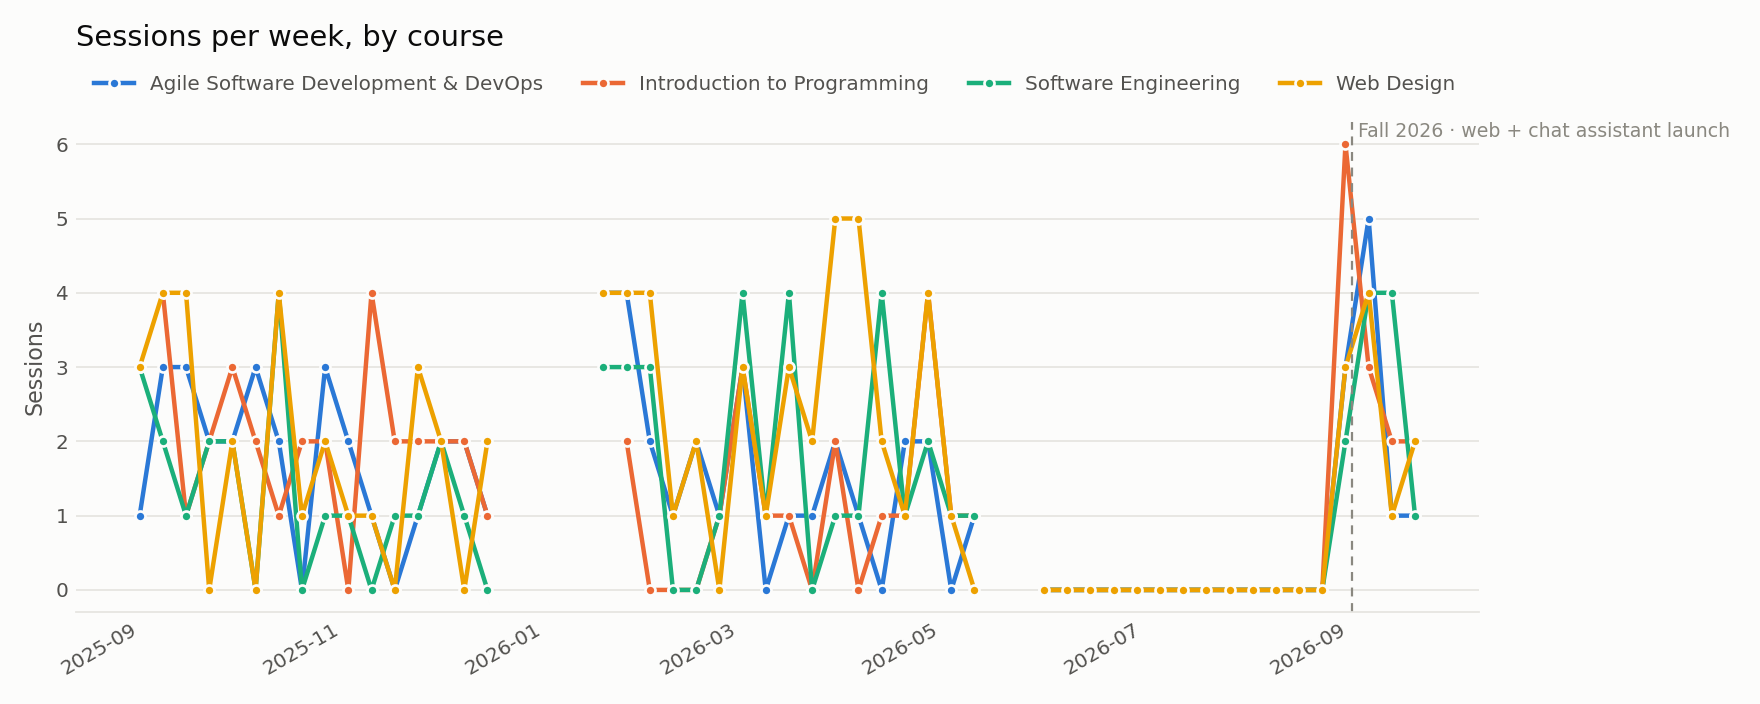
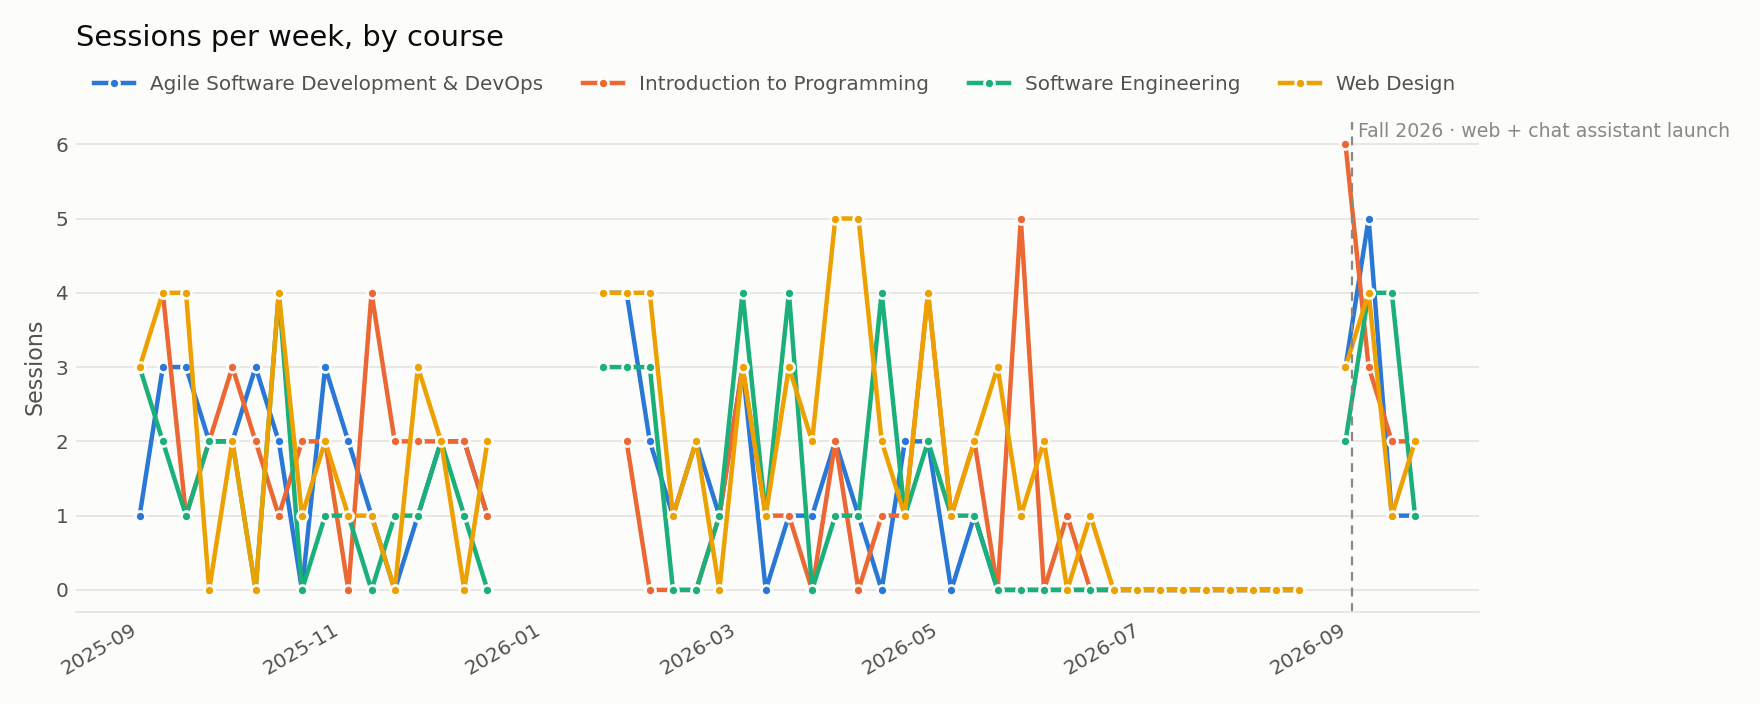
ANLY-11: Summer 2026 window 11 May - 19 Aug, one term per session, mid-May mock traffic
bloombot

Changed region(s): [[0.5312, 0.3125, 0.6562, 0.8438], [0.75, 0.5312, 0.7812, 0.8438]]

diff --git a/tests/test_analysis.py b/tests/test_analysis.py
@@ -307,7 +307,8 @@ def test_class_sizes_are_configured_by_term_and_pipeline_label():
     assert config.class_sizes_for("summer_2026") == {"Introduction to Programming": 54, "Web Design": 28}
     assert config.class_sizes_for("fall_2026")["Software Engineering"] == 109
     assert config.class_sizes_for("summer_2025") == {}
-    assert config.term("summer_2026").start == date(2026, 6, 1)
+    # Official 18 May - 12 Aug, widened a week either side.
+    assert (config.term("summer_2026").start, config.term("summer_2026").end) == (date(2026, 5, 11), date(2026, 8, 19))
     assert not config.registration_existed("spring_2026") and config.registration_existed("fall_2026")
 
 
@@ -342,6 +343,39 @@ def test_term_adoption_has_no_share_without_a_class_size_and_blanks_small_cells(
     assert summer["active"] == 6 and pd.isna(summer["enrolled"]) and pd.isna(summer["active_share"])
     solo = table[(table["term"] == "fall_2025") & (table["course"] == "Software Engineering")].iloc[0]
     assert pd.isna(solo["active"]) and pd.isna(solo["active_share"])  # 1 < min_cell_students
+
+
+def test_overlapping_term_windows_count_each_session_once():
+    """ANLY-11: 11-12 May sits in Spring and Summer windows; the course's class-size term wins."""
+    config = Config(as_of=date(2026, 10, 9))
+    frame = pd.concat(
+        [_messages(["2026-05-12 10:00"], person="a", course="Web Design"),  # summer course
+         _messages(["2026-05-12 11:00"], person="b", course="Software Engineering"),  # spring course
+         _messages(["2026-05-20 10:00"], person="c", course="Web Design")]
+    )
+    table = sessions.term_adoption(
+        sessions.session_frame(frame), pd.DataFrame(columns=["course", "person_key"]), config
+    )
+    summer = table[(table["term"] == "summer_2026") & (table["course"] == "Web Design")].iloc[0]
+    assert pd.isna(summer["active"])  # 2 active is under the small-cell floor
+    spring_se = table[(table["term"] == "spring_2026") & (table["course"] == "Software Engineering")]
+    assert len(spring_se) == 1
+    # No Web Design row under Spring, and every session is counted in exactly one term.
+    assert table[(table["term"] == "spring_2026") & (table["course"] == "Web Design")].empty
+    tagged = sessions._assign_terms(sessions.session_frame(frame), config)
+    assert sorted(tagged["_term"]) == ["spring_2026", "summer_2026", "summer_2026"]
+
+
+def test_summer_traffic_in_mid_may_is_counted_under_summer_2026():
+    config = Config(as_of=date(2026, 10, 9))
+    frame = pd.concat(
+        [_messages(["2026-05-14 10:00"], person=f"p{i}", course="Web Design") for i in range(6)]
+    )
+    table = sessions.term_adoption(
+        sessions.session_frame(frame), pd.DataFrame(columns=["course", "person_key"]), config
+    )
+    row = table[(table["term"] == "summer_2026") & (table["course"] == "Web Design")].iloc[0]
+    assert row["active"] == 6 and row["active_share"] == pytest.approx(6 / 28)
 
 
 def test_window_active_share_ignores_unsized_courses():
@@ -1264,6 +1298,9 @@ def test_mock_report_has_a_staff_section_and_student_only_figures(mock_dbs):
     volume = metrics["volume"]
     assert volume["adoption_total_enrolled"] == 145
     assert volume["adoption_total_registered"] > 0
+    # Mid-May summer-course traffic lands in Summer 2026, not Spring (term windows overlap).
+    summer = [r for r in volume["term_adoption"] if r["term"] == "summer_2026" and r["course"] == "Introduction to Programming"]
+    assert summer and summer[0]["active"] and summer[0]["active"] > 0
     assert any(r["course"] == "Introduction to Programming" and pd.isna(r["enrolled"]) for r in volume["adoption"])
 
     # Every student notebook filters to students: the numbers they wrote match

diff --git a/analysis/bloombot_analysis/sessions.py b/analysis/bloombot_analysis/sessions.py
@@ -269,6 +269,30 @@ def adoption(
     return out[columns].sort_values("course").reset_index(drop=True)
 
 
+def _assign_terms(sessions: pd.DataFrame, config: Config) -> pd.DataFrame:
+    """
+    Tag each session with the one term it belongs to (`_term`), so term windows
+    that overlap never count a session twice.
+
+    A session falls in every term window that contains its date. If that is
+    several, it goes to the term whose class sizes list its course (Summer
+    courses in the May overlap with Spring); if still several or none do, to
+    the latest-starting one. Sessions outside every window get no term.
+    This uses the `Term` windows, not `load.semester_of`, which calls all of
+    May Spring.
+    """
+    if sessions.empty:
+        return sessions.assign(_term=pd.Series(dtype=object))
+    days = pd.to_datetime(sessions["started_at"]).dt.date
+    ordered = sorted(config.terms.items(), key=lambda kv: kv[1].start, reverse=True)
+    owners = []
+    for day, course in zip(days, sessions["course"]):
+        inside = [(k, t) for k, t in ordered if t.start <= day <= t.end]
+        sized = [k for k, _ in inside if course in config.class_sizes_for(k)]
+        owners.append(sized[0] if sized else (inside[0][0] if inside else None))
+    return sessions.assign(_term=owners)
+
+
 def term_adoption(
     student_sessions: pd.DataFrame,
     enrolments: pd.DataFrame,
@@ -288,10 +312,10 @@ def term_adoption(
     """
     config = config or CONFIG
     rows = []
-    frame = student_sessions
+    frame = _assign_terms(student_sessions, config)
     for key, term in sorted(config.terms.items(), key=lambda kv: kv[1].start):
         sizes = config.class_sizes_for(key)
-        in_this = in_term(frame, term, ts_column="started_at") if not frame.empty else frame
+        in_this = frame[frame["_term"] == key] if not frame.empty else frame
         active = (
             in_this.groupby("course")["person_key"].nunique() if not in_this.empty else pd.Series(dtype=int)
         )

diff --git a/analysis/mock/make_mock_data.py b/analysis/mock/make_mock_data.py
@@ -53,6 +53,9 @@ sys.path.insert(0, str(REPO_ROOT / "analysis"))
 AS_OF = date(2026, 9, 25)
 FALL_2025 = (date(2025, 9, 3), date(2025, 12, 16))
 SPRING_2026 = (date(2026, 1, 20), date(2026, 5, 12))
+# Summer-course traffic starts in mid-May, inside the analysis's widened Summer
+# 2026 window (11 May - 19 Aug) and overlapping the end of Spring (ANLY-11).
+SUMMER_2026_MOCK = (date(2026, 5, 13), date(2026, 6, 20))
 FALL_2026_START = date(2026, 9, 2)
 
 # ANLY-11. Mock class sizes, larger than the registered counts above so the
@@ -65,6 +68,10 @@ MOCK_CLASS_SIZES = {
         "Software Engineering": 50,
         "Agile Software Development & DevOps": 40,
         "Web Design": 35,
+    },
+    "summer_2026": {
+        "Introduction to Programming": 50,
+        "Web Design": 30,
     },
     "spring_2026": {
         "Software Engineering": 55,
@@ -504,6 +511,13 @@ def main() -> None:
         historical += build_sessions(
             rng, active, [c[0] for c in COURSES], start, end, ["discord"]
         )
+    # Summer-course traffic in mid-May 2026: it must be counted under Summer 2026,
+    # not Spring, though `semester_of` calls May Spring. Own generator so the
+    # rest of the mock data is unchanged.
+    historical += build_sessions(
+        random.Random(args.seed + 1), active,
+        ["Introduction to Programming", "Web Design"], *SUMMER_2026_MOCK, ["discord"],
+    )
     # The cutover gap: a few days of September 2026 the importer never picked up.
     cutover = build_sessions(
         rng, active, [c[0] for c in COURSES], FALL_2026_START, date(2026, 9, 8), ["discord"]

diff --git a/analysis/bloombot_analysis/config.py b/analysis/bloombot_analysis/config.py
@@ -237,9 +237,13 @@ class Config:
     terms: dict[str, Term] = field(
         default_factory=lambda: {
             "fall_2026": Term("fall_2026", "Fall 2026", date(2026, 9, 2), date(2026, 12, 15)),
-            # Summer terms: the real dates are not known, so these are the
-            # approximate boundaries of `load.semester_of` (1 Jun - 31 Aug).
-            "summer_2026": Term("summer_2026", "Summer 2026", date(2026, 6, 1), date(2026, 8, 31)),
+            # Summer 2026: the official dates are 2026-05-18 to 2026-08-12; the
+            # window is widened a week either side. It overlaps the end of
+            # Spring 2026 (12 May); `sessions.term_adoption` gives each session
+            # to exactly one term.
+            "summer_2026": Term("summer_2026", "Summer 2026", date(2026, 5, 11), date(2026, 8, 19)),
+            # Summer 2025: dates not known, so the approximate boundaries of
+            # `load.semester_of` (1 Jun - 31 Aug).
             "summer_2025": Term("summer_2025", "Summer 2025", date(2025, 6, 1), date(2025, 8, 31)),
             "fall_2025": Term("fall_2025", "Fall 2025", date(2025, 9, 3), date(2025, 12, 16)),
             "spring_2026": Term("spring_2026", "Spring 2026", date(2026, 1, 20), date(2026, 5, 12)),

diff --git a/analysis/examples/mock_report/USAGE_REPORT.md b/analysis/examples/mock_report/USAGE_REPORT.md
@@ -91,9 +91,9 @@ Account creation is **gated on my approval**, deliberately. Every tenant's usage
 
 | gap_minutes | sessions | median_prompts | median_duration_minutes |
 | --- | --- | --- | --- |
-| 15 | 269 | 2.00 | 12.23 |
-| 30 | 269 | 2.00 | 12.23 |
-| 60 | 269 | 2.00 | 12.23 |
+| 15 | 285 | 2.00 | 12.55 |
+| 30 | 285 | 2.00 | 12.55 |
+| 60 | 285 | 2.00 | 12.55 |
 
 **Speaker notes:** The table is the sensitivity check: the same headline numbers re-derived at 15, 30 and 60 minutes. If they barely move, say so in one line and move on — that is the point of showing it.
 
@@ -101,20 +101,20 @@ Account creation is **gated on my approval**, deliberately. Every tenant's usage
 
 ## S07 · Where the data comes from
 
-**Takeaway:** 1,666 student messages from two databases, reconciled into one, 1,388 duplicates dropped.
+**Takeaway:** 1,760 student messages from two databases, reconciled into one, 1,468 duplicates dropped.
 
 Bloombot's history spans two data models: the Python bot's log up to Fall 2026, and the current platform's. Some of the old log was imported into the new database, so the same message can exist in both — those are matched on content and timestamp and counted once. Students are joined across the two by their Discord identity, so someone who used the bot last year and again this fall is one person, not two.
 
 |  | Count |
 | --- | --- |
-| Messages in the pre-Fall-2026 database | 1,508 |
-| Messages in the current platform database | 1,600 |
-| Dropped as already-imported duplicates | 1,388 |
+| Messages in the pre-Fall-2026 database | 1,602 |
+| Messages in the current platform database | 1,680 |
+| Dropped as already-imported duplicates | 1,468 |
 | Dropped as test accounts | 4 |
 | Staff messages (reported separately) | 50 |
-| Student messages analysed | 1,666 |
-| Sessions | 269 |
-| Distinct students | 54 |
+| Student messages analysed | 1,760 |
+| Sessions | 285 |
+| Distinct students | 55 |
 | First message | 2025-09-04 |
 | Last message | 2026-09-25 |
 
@@ -166,7 +166,7 @@ Active share needs only the conversation record, so it exists for terms before t
 
 ![How much of each class used it, term by term](figures/adoption_by_term.png)
 
-*Figure: Enrolled students (class size) and active users per course and term. Active counts below 5 are blanked. n = 100 active users, summed over the course-terms shown.*
+*Figure: Enrolled students (class size) and active users per course and term. Active counts below 5 are blanked. n = 106 active users, summed over the course-terms shown.*
 
 | Term | Course | Enrolled students | Registered users | Active users | Active, of enrolled |
 | --- | --- | --- | --- | --- | --- |
@@ -178,6 +178,8 @@ Active share needs only the conversation record, so it exists for terms before t
 | Spring 2026 | Introduction to Programming | — | registration did not exist | 7 | — |
 | Spring 2026 | Software Engineering | 55 | registration did not exist | 14 | 25% |
 | Spring 2026 | Web Design | 36 | registration did not exist | 6 | 17% |
+| Summer 2026 | Introduction to Programming | 50 | registration did not exist | 6 | 12% |
+| Summer 2026 | Web Design | 30 | registration did not exist | — | — |
 | Fall 2026 (to date) | Agile Software Development & DevOps | 45 | 21 | 5 | 11% |
 | Fall 2026 (to date) | Introduction to Programming | — | 46 | 9 | — |
 | Fall 2026 (to date) | Software Engineering | 60 | 34 | 9 | 15% |
@@ -195,7 +197,7 @@ Points, not a trend line: with this many weeks a fitted line would assert more t
 
 ![Volume over the whole period](figures/weekly_sessions_by_course.png)
 
-*Figure: Sessions per week by course, 2025-09-04 → 2026-09-25 (n = 269 sessions). The dashed rule marks the start of Fall 2026, when the web and chat-assistant interfaces launched.*
+*Figure: Sessions per week by course, 2025-09-04 → 2026-09-25 (n = 285 sessions). The dashed rule marks the start of Fall 2026, when the web and chat-assistant interfaces launched.*
 
 **Speaker notes:** Walk the audience along the line and name the weeks; the shape does the argument for you.
 
@@ -263,13 +265,13 @@ Read the Discord pair as the behavioural comparison and the other two as a launc
 
 ## S15 · What a typical session looks like
 
-**Takeaway:** Median 2 prompts per session (IQR 2–4); 40 of 269 (15%) sessions are a single question.
+**Takeaway:** Median 2 prompts per session (IQR 2–4); 41 of 285 (14%) sessions are a single question.
 
-Mean 3.1, median 2 — the gap is the long tail of a few deep sessions, which is why the median leads. 47 sessions ran to five prompts or more.
+Mean 3.1, median 2 — the gap is the long tail of a few deep sessions, which is why the median leads. 49 sessions ran to five prompts or more.
 
 ![What a typical session looks like](figures/prompts_per_session.png)
 
-*Figure: Distribution of student messages per session (n = 269 sessions). The median is marked.*
+*Figure: Distribution of student messages per session (n = 285 sessions). The median is marked.*
 
 **Speaker notes:** The one-question majority is the real finding here, and it argues the bot is used as a reference, not as a tutor. Say that as a reading, not as a measurement.
 
@@ -277,13 +279,13 @@ Mean 3.1, median 2 — the gap is the long tail of a few deep sessions, which is
 
 ## S16 · How long a session lasts, and when it happens
 
-**Takeaway:** Median 12.2 minutes; 158 of 269 (59%) sessions start between 18:00 and 08:00.
+**Takeaway:** Median 12.6 minutes; 167 of 285 (59%) sessions start between 18:00 and 08:00.
 
 The after-hours share is the clearest argument for an always-on assistant in the whole dataset: these are questions that would otherwise have waited for the next class or gone unasked.
 
 ![How long a session lasts, and when it happens](figures/sessions_by_hour.png)
 
-*Figure: Sessions by the hour they started, local time (n = 269 sessions).*
+*Figure: Sessions by the hour they started, local time (n = 285 sessions).*
 
 **Speaker notes:** Careful: 'would otherwise have gone unasked' is an inference. The measured part is the hour distribution.
 
@@ -291,7 +293,7 @@ The after-hours share is the clearest argument for an always-on assistant in the
 
 ## S17 · Do they come back?
 
-**Takeaway:** 40 of 54 (74%) students who used the bot used it again on another day.
+**Takeaway:** 41 of 55 (75%) students who used the bot used it again on another day.
 
 Median active days per student: 3.0. Reported as counts rather than a retention curve on purpose — a curve on a cohort this size implies a precision the data does not have.
 
@@ -301,7 +303,7 @@ Median active days per student: 3.0. Reported as counts rather than a retention 
 
 ## S18 · What students asked about
 
-**Takeaway:** The largest category is Course concepts (38 sessions); 5% of sessions fall outside the label set.
+**Takeaway:** The largest category is Course concepts (40 sessions); 5% of sessions fall outside the label set.
 
 **No hand-audit has been recorded yet** — fill in `topic_audit_completed.csv` and re-run notebook 03 before presenting these charts.
 
@@ -309,23 +311,23 @@ A large *Other* share is itself a finding about what the thirteen labels miss, n
 
 ![What students asked about](figures/topics_overall.png)
 
-*Figure: Sessions per topic, all courses (n = 269 sessions, classified by keyword).*
+*Figure: Sessions per topic, all courses (n = 285 sessions, classified by keyword).*
 
 | Topic | Sessions |
 | --- | --- |
-| Course concepts | 38 |
-| Tools, setup & deployment | 35 |
+| Course concepts | 40 |
+| Tools, setup & deployment | 39 |
 | Team coordination | 29 |
-| Code & debugging | 25 |
+| Code & debugging | 26 |
 | Project & assignment requirements | 21 |
 | Course policies | 21 |
-| Git & GitHub workflow | 20 |
-| Discord & platform help | 19 |
+| Git & GitHub workflow | 21 |
+| Discord & platform help | 21 |
+| Deadlines & schedule | 17 |
 | Quiz & exam questions | 15 |
 | Greetings & bot questions | 15 |
-| Deadlines & schedule | 13 |
-| Other | 13 |
-| Grades & grading | 5 |
+| Other | 14 |
+| Grades & grading | 6 |
 
 **Speaker notes:** Name the classifier and its agreement rate out loud. A topic chart from an unaudited classifier is an assertion.
 
@@ -339,7 +341,7 @@ Cells backed by fewer than five distinct students are suppressed and drawn empty
 
 ![The mix differs by course](figures/topics_by_course.png)
 
-*Figure: Sessions by topic and course. 38 of 52 cells are suppressed: fewer than 5 distinct students behind them.*
+*Figure: Sessions by topic and course. 37 of 52 cells are suppressed: fewer than 5 distinct students behind them.*
 
 | Topic | Agile Software Development & DevOps | Introduction to Programming | Software Engineering | Web Design |
 | --- | --- | --- | --- | --- |
@@ -347,15 +349,15 @@ Cells backed by fewer than five distinct students are suppressed and drawn empty
 | Deadlines & schedule | — | — | — | — |
 | Grades & grading | — | — | — | — |
 | Course policies | — | 7.00 | 6.00 | — |
-| Course concepts | 8.00 | 14.00 | — | — |
+| Course concepts | 8.00 | 16.00 | — | — |
 | Quiz & exam questions | — | — | 7.00 | — |
 | Code & debugging | — | 13.00 | 6.00 | — |
 | Git & GitHub workflow | 7.00 | — | — | — |
-| Tools, setup & deployment | 15.00 | 10.00 | — | — |
+| Tools, setup & deployment | 15.00 | 13.00 | — | — |
 | Team coordination | 10.00 | — | 10.00 | — |
 | Discord & platform help | — | — | — | — |
 | Greetings & bot questions | — | — | — | 9.00 |
-| Other | — | — | — | — |
+| Other | — | — | — | 5.00 |
 
 **Speaker notes:** The most quotable finding in the deck. Pick the two courses with the sharpest contrast and stop there.
 
@@ -442,7 +444,7 @@ The cost ledger exists only on the current platform and only for live traffic, s
 
 ## S23 · Staff use it too, and it is counted separately
 
-**Takeaway:** Staff sent 25 of 858 (3%) of all prompts (18 sessions); every other figure here is students only.
+**Takeaway:** Staff sent 25 of 905 (3%) of all prompts (18 sessions); every other figure here is students only.
 
 Staff are course owners, instructors and assistants: anyone with an active membership in the course's organization, plus any handle on a manual list. They use the bot to demonstrate it in class, to test it, to announce things and to look something up while teaching, so mixing them into student figures would overstate how much students use it. A staff group can be a single person, so this section reports totals only: no per-person or per-course detail, and no quotes.
 
@@ -452,9 +454,9 @@ Staff are course owners, instructors and assistants: anyone with an active membe
 
 | Measure | Staff | All traffic | Staff share |
 | --- | --- | --- | --- |
-| Messages | 50 | 1716 | 3% |
-| Sessions | 18 | 287 | 6% |
-| Prompts | 25 | 858 | 3% |
+| Messages | 50 | 1810 | 3% |
+| Sessions | 18 | 303 | 6% |
+| Prompts | 25 | 905 | 3% |
 
 | Interface | Sessions | Prompts |
 | --- | --- | --- |
@@ -498,8 +500,8 @@ Staff sessions use their own set of purposes rather than the student topics. **N
 
 Stated as hypotheses, with the evidence attached:
 
-1. **Reference, not tutoring.** A session is short — median 2 prompts, 40 of 269 (15%) of them a single question — and the largest topic is Course concepts. That pattern fits a look-it-up habit more than a study-with-me one.
-2. **It fills the hours nobody staffs.** 158 of 269 (59%) sessions start between 18:00 and 08:00.
+1. **Reference, not tutoring.** A session is short — median 2 prompts, 41 of 285 (14%) of them a single question — and the largest topic is Course concepts. That pattern fits a look-it-up habit more than a study-with-me one.
+2. **It fills the hours nobody staffs.** 167 of 285 (59%) sessions start between 18:00 and 08:00.
 3. **Adoption is partial and shallow.** A minority of enrolled students has registered with the bot, and a smaller group returns repeatedly. Whether the shallow group got what they needed or gave up is exactly what this data cannot say.
 4. **A private interface may invite different questions.** Consistent with the topic split by interface; not established by it.
 

diff --git a/docs/DECISIONS.md b/docs/DECISIONS.md
@@ -14587,8 +14587,12 @@ of deletions; the combined file excludes them with the rest of their history.
   with a class size, including those before registration existed. `registered` is NA there ("registration did not
   exist"), not 0. The current term is flagged partial. Active counts of 1 to 4 are blanked (small-cell rule), and the
   share goes with them.
-- **Summer terms.** `summer_2026` and `summer_2025` were added to `config.terms`, using the approximate boundaries of
-  `load.semester_of` (1 June to 31 August); the real dates are not known. `weekly_matrix` zero-fills only terms that
+- **Summer terms.** `summer_2025` was added with the approximate boundaries of `load.semester_of` (1 June to 31 August);
+  its real dates are not known. `summer_2026` has official dates 2026-05-18 to 2026-08-12, and the analysis window is
+  widened a week either side: 2026-05-11 to 2026-08-19. That overlaps Spring 2026 (ends 12 May), so
+  `sessions.term_adoption` assigns each session to exactly one term: if several windows contain its date, the term whose
+  class sizes list its course wins, otherwise the latest-starting one. Per-term tables use these `Term` windows, not
+  `load.semester_of` (which calls all of May Spring and still labels the `semester` column that way). `weekly_matrix` zero-fills only terms that
   have traffic, so a quiet summer still breaks the weekly line. No class sizes exist for Summer 2025, so its share is NA.
 - **Totals.** Shares in the total count only courses that have a class size, in numerator and denominator alike.
   `registered_total` and `active_total` still count every course's users.
